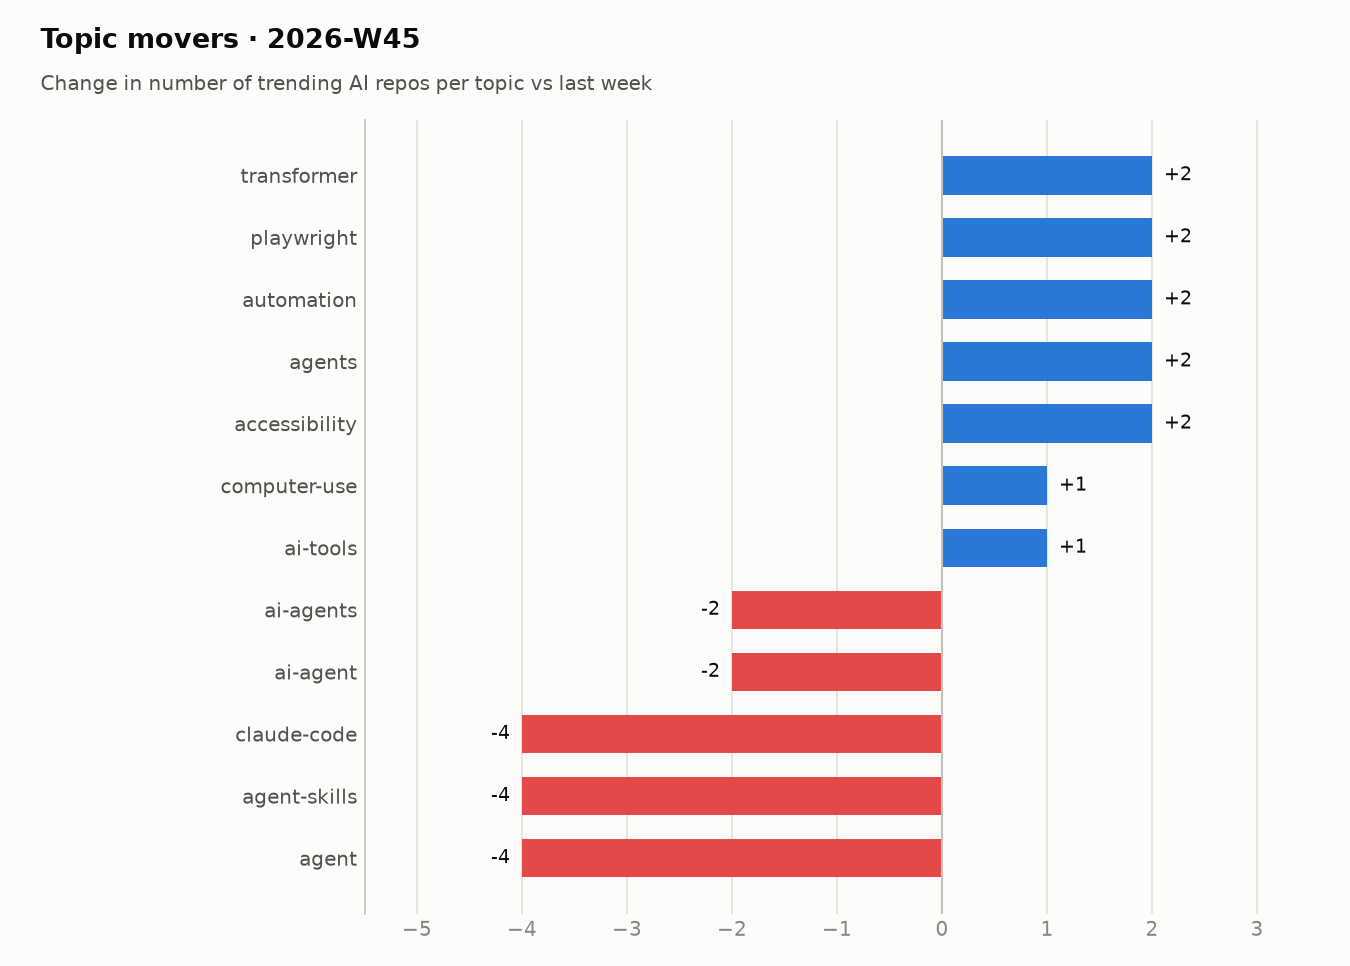
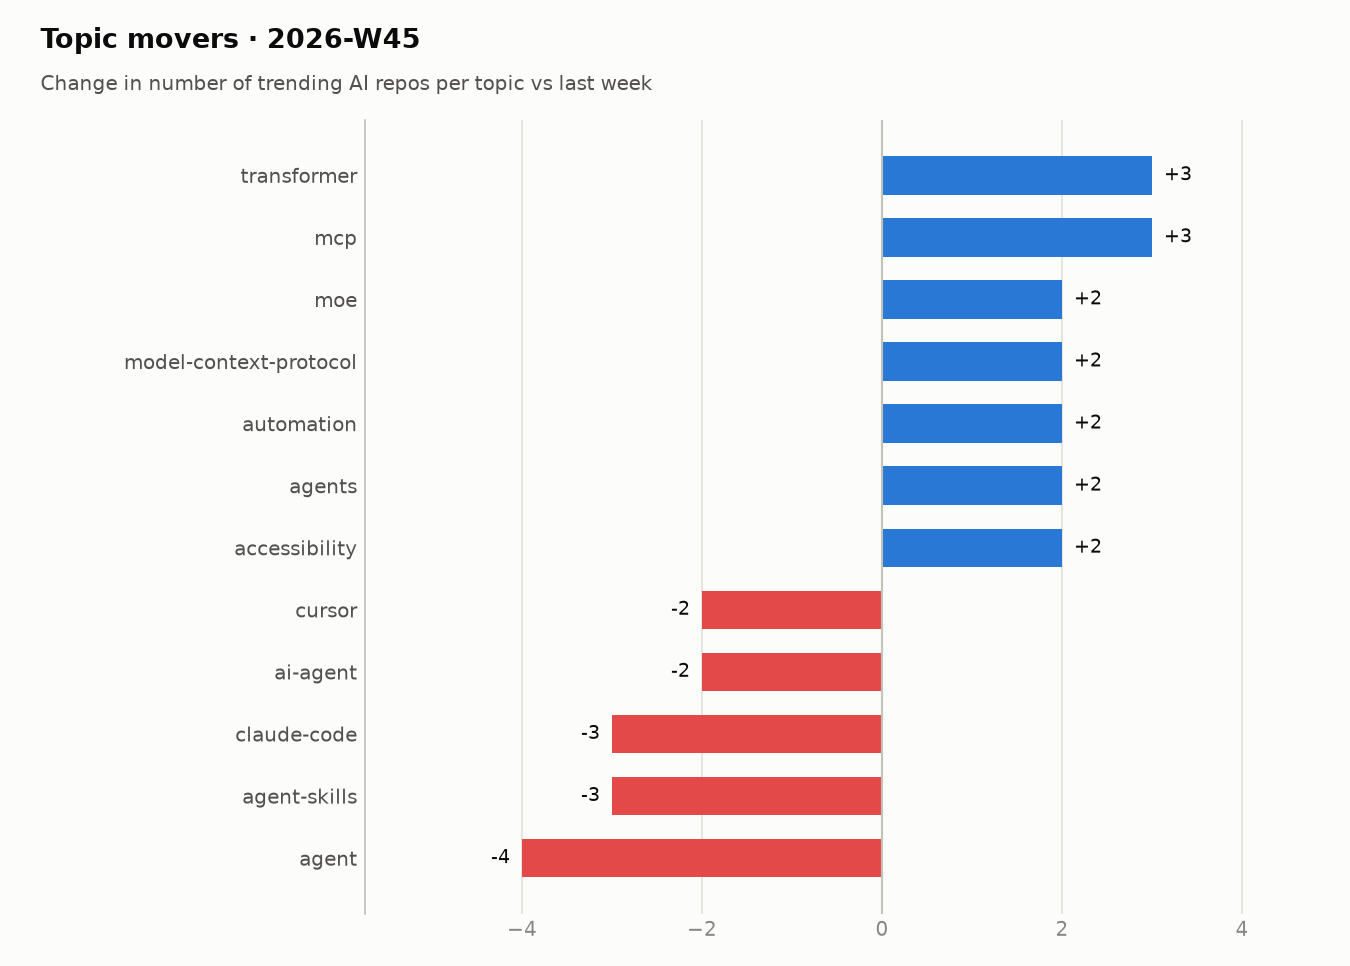
trending: snapshot 2026-11-05

diff --git a/README.md b/README.md
@@ -7,33 +7,35 @@ Every morning a GitHub Actions workflow reads the GitHub trending page, looks up
 ## Live view
 
 <!-- TRACKER_START -->
-### 🔥 AI repos trending today · 2026-11-04
+### 🔥 AI repos trending today · 2026-11-05
 
-11 of 13 trending repositories are AI-related.
+13 of 16 trending repositories are AI-related.
 
 | # | Repo | Language | ⭐ today | ⭐ total | Topics |
 |--:|---|---|--:|--:|---|
-| 1 | [thedotmack/claude-mem](https://github.com/thedotmack/claude-mem)<br><sub>Sponsor Star thedotmack / claude-mem Persistent Context Across Sessions for Every Agent – …</sub> | TypeScript | 1,139 | 112,306 | `ai` `ai-agents` `ai-memory` `anthropic` |
-| 2 | [vercel-labs/agent-desktop](https://github.com/vercel-labs/agent-desktop)<br><sub>Star vercel-labs / agent-desktop Computer use CLI for AI agents</sub> | Rust | 3,791 | 13,649 | `accessibility` `accessibility-api` `ai-agents` `automation` |
-| 3 | [max-sixty/worktrunk](https://github.com/max-sixty/worktrunk)<br><sub>Star max-sixty / worktrunk Worktrunk is a CLI for Git worktree management, designed for pa…</sub> | Rust | 438 | 10,706 | `agents` `claude-code` `codex` `developer-tools` |
-| 4 | [JustVugg/colibri](https://github.com/JustVugg/colibri)<br><sub>Star JustVugg / colibri A hierarchical inference engine for frontier MoE models: hot exper…</sub> | C | 802 | 47,469 | – |
-| 5 | [mattpocock/skills](https://github.com/mattpocock/skills)<br><sub>Sponsor Star mattpocock / skills Skills for Real Engineers. Straight from my .agents direc…</sub> | Shell | 1,164 | 311,942 | – |
-| 6 | [p-e-w/heretic](https://github.com/p-e-w/heretic)<br><sub>Star p-e-w / heretic Training-free language model modification: Remove censorship, suppres…</sub> | Python | 701 | 39,063 | `abliteration` `anti-censorship` `anticensorship` `censorship` |
-| 7 | [spotify/portal-ai-plugins](https://github.com/spotify/portal-ai-plugins)<br><sub></sub> | TypeScript | 91 | 3,110 | – |
-| 9 | [Usagi-org/ai-goofish-monitor](https://github.com/Usagi-org/ai-goofish-monitor)<br><sub>Star Usagi-org / ai-goofish-monitor 基于 Playwright 和AI实现的闲鱼多任务实时/定时监控与智能分析系统，配备了功能完善的后台管理UI…</sub> | Python | 228 | 16,935 | `ai` `ai-assistant` `ai-tools` `automation` |
-| 10 | [anomalyco/hex](https://github.com/anomalyco/hex)<br><sub>Sponsor Star anomalyco / hex Local voice dictation for mac, windows and linux</sub> | Rust | 410 | 4,809 | `dictation` `linux` `local-first` `macos` |
-| 11 | [D4Vinci/Scrapling](https://github.com/D4Vinci/Scrapling)<br><sub>Sponsor Star D4Vinci / Scrapling 🕷 The BEST Web Scraping framework that handles everythin…</sub> | Python | 1,658 | 95,499 | `ai` `ai-scraping` `automation` `crawler` |
-| 13 | [Donchitos/Claude-Code-Game-Studios](https://github.com/Donchitos/Claude-Code-Game-Studios)<br><sub>Sponsor Star Donchitos / Claude-Code-Game-Studios Turn Claude Code into a full game dev st…</sub> | Shell | 1,182 | 35,031 | `ai-agents` `ai-assisted-development` `anthropic` `claude` |
+| 1 | [NVIDIA/auto-ontology](https://github.com/NVIDIA/auto-ontology)<br><sub>Star NVIDIA / auto-ontology Auto Ontology is a Python framework for building semantic, gra…</sub> | Python | 2,050 | 6,068 | – |
+| 2 | [max-sixty/worktrunk](https://github.com/max-sixty/worktrunk)<br><sub>Star max-sixty / worktrunk Worktrunk is a CLI for Git worktree management, designed for pa…</sub> | Rust | 531 | 11,254 | `agents` `claude-code` `codex` `developer-tools` |
+| 3 | [mattpocock/skills](https://github.com/mattpocock/skills)<br><sub>Sponsor Star mattpocock / skills Skills for Real Engineers. Straight from my .agents direc…</sub> | Shell | 1,379 | 313,928 | – |
+| 5 | [thedotmack/claude-mem](https://github.com/thedotmack/claude-mem)<br><sub>Sponsor Star thedotmack / claude-mem Persistent Context Across Sessions for Every Agent – …</sub> | TypeScript | 1,172 | 113,191 | `ai` `ai-agents` `ai-memory` `anthropic` |
+| 6 | [vercel-labs/agent-desktop](https://github.com/vercel-labs/agent-desktop)<br><sub>Star vercel-labs / agent-desktop Computer use CLI for AI agents</sub> | Rust | 2,470 | 15,941 | `accessibility` `accessibility-api` `ai-agents` `automation` |
+| 7 | [github/spec-kit](https://github.com/github/spec-kit)<br><sub>Star github / spec-kit 💫 Toolkit to help you get started with SDD or any other process!</sub> | Python | 808 | 147,566 | `ai` `copilot` `development` `engineering` |
+| 8 | [The-PR-Agent/pr-agent](https://github.com/The-PR-Agent/pr-agent)<br><sub>Star The-PR-Agent / pr-agent 🚀 PR Agent: The Original Open-Source PR Reviewer. This projec…</sub> | Python | 280 | 14,959 | `ai` `anthropic` `code-review` `coding-assistant` |
+| 9 | [harry0703/MoneyPrinterTurbo](https://github.com/harry0703/MoneyPrinterTurbo)<br><sub>Star harry0703 / MoneyPrinterTurbo 利用 AI 大模型和自动化工作流，根据主题或关键词一键生成高清短视频。Generate HD short vi…</sub> | Python | 617 | 139,438 | `ai-video-generator` `content-creation` `ffmpeg` `instagram-reels` |
+| 10 | [garrytan/gstack](https://github.com/garrytan/gstack)<br><sub>Star garrytan / gstack Use Garry Tan's exact Claude Code setup: 23 opinionated tools that …</sub> | TypeScript | 290 | 139,560 | – |
+| 11 | [FareedKhan-dev/kimi-k3-in-c](https://github.com/FareedKhan-dev/kimi-k3-in-c)<br><sub>Star FareedKhan-dev / kimi-k3-in-c A 2.78-trillion-parameter Kimi K3 running inference on …</sub> | C | 351 | 10,590 | `avx2` `c99` `cpu-inference` `deep-learning` |
+| 14 | [D4Vinci/Scrapling](https://github.com/D4Vinci/Scrapling)<br><sub>Sponsor Star D4Vinci / Scrapling 🕷 The BEST Web Scraping framework that handles everythin…</sub> | Python | 2,005 | 97,143 | `ai` `ai-scraping` `automation` `crawler` |
+| 15 | [Thysrael/Horizon](https://github.com/Thysrael/Horizon)<br><sub>Star Thysrael / Horizon 📡 Your own AI-powered news radar. Generates daily briefings in Eng…</sub> | Python | 121 | 12,777 | `aggregator` `feishu-bot` `llm` `mcp` |
+| 16 | [scenario-labs/skills](https://github.com/scenario-labs/skills)<br><sub>Star scenario-labs / skills Get production-ready images, video, audio, and 3D from any AI …</sub> | Python | 224 | 2,676 | `3d-models` `agent-skills` `ai-agents` `ai-art` |
 
 ### 📊 This week so far · 2026-W45
 
 #### Summary
 
-- **20** distinct AI repos trended over 3 day(s) (last week: 30)
-- AI share of all trending slots: **73%** (-9 pts vs last week)
-- Dominant language: **Python** (30% of AI repos)
-- Rising topics: `accessibility` (+2), `agents` (+2), `automation` (+2), `playwright` (+2), `transformer` (+2)
-- New this week: `accessibility`, `agents`, `transformer`
+- **28** distinct AI repos trended over 4 day(s) (last week: 30)
+- AI share of all trending slots: **75%** (-7 pts vs last week)
+- Dominant language: **Python** (43% of AI repos)
+- Rising topics: `mcp` (+3), `transformer` (+3), `accessibility` (+2), `agents` (+2), `automation` (+2)
+- New this week: `transformer`, `accessibility`, `model-context-protocol`, `agents`, `moe`, `openclaw`
 
 #### Languages
 
@@ -41,13 +43,13 @@ Every morning a GitHub Actions workflow reads the GitHub trending page, looks up
 
 | Language | Repos | Share | Last week |
 |---|--:|--:|--:|
-| Python | 6 | 30% | 7 |
-| TypeScript | 5 | 25% | 8 |
-| Rust | 4 | 20% | 3 |
-| Shell | 2 | 10% | 4 |
-| Zig | 1 | 5% | 1 |
-| Jupyter Notebook | 1 | 5% | 0 |
-| C | 1 | 5% | 0 |
+| Python | 12 | 43% | 7 |
+| TypeScript | 6 | 21% | 8 |
+| Rust | 4 | 14% | 3 |
+| Shell | 2 | 7% | 4 |
+| C | 2 | 7% | 0 |
+| Zig | 1 | 4% | 1 |
+| Jupyter Notebook | 1 | 4% | 0 |
 
 #### Topics
 
@@ -55,37 +57,37 @@ Every morning a GitHub Actions workflow reads the GitHub trending page, looks up
 
 | Topic | Repos this week |
 |---|--:|
-| `ai-agents` | 6 |
-| `mcp` | 6 |
-| `claude-code` | 5 |
+| `mcp` | 8 |
+| `ai-agents` | 7 |
+| `claude-code` | 6 |
+| `codex` | 4 |
 | `claude` | 3 |
+| `claude-skills` | 3 |
+| `anthropic` | 3 |
 | `playwright` | 3 |
-| `codex` | 3 |
+| `transformer` | 3 |
 | `automation` | 3 |
 | `rag` | 2 |
-| `claude-skills` | 2 |
-| `anthropic` | 2 |
 | `browser-automation` | 2 |
-| `self-hosted` | 2 |
 
 #### Most persistent AI repos
 
 | Repo | Language | Days trending | Stars gained | Total stars |
 |---|---|--:|--:|--:|
-| [thedotmack/claude-mem](https://github.com/thedotmack/claude-mem) | TypeScript | 3 | 4,468 | 112,306 |
+| [thedotmack/claude-mem](https://github.com/thedotmack/claude-mem) | TypeScript | 4 | 5,640 | 113,191 |
+| [vercel-labs/agent-desktop](https://github.com/vercel-labs/agent-desktop) | Rust | 3 | 8,536 | 15,941 |
+| [D4Vinci/Scrapling](https://github.com/D4Vinci/Scrapling) | Python | 3 | 4,369 | 97,143 |
 | [Donchitos/Claude-Code-Game-Studios](https://github.com/Donchitos/Claude-Code-Game-Studios) | Shell | 3 | 3,528 | 35,031 |
-| [vercel-labs/agent-desktop](https://github.com/vercel-labs/agent-desktop) | Rust | 2 | 6,066 | 13,649 |
-| [D4Vinci/Scrapling](https://github.com/D4Vinci/Scrapling) | Python | 2 | 2,364 | 95,499 |
-| [mattpocock/skills](https://github.com/mattpocock/skills) | Shell | 2 | 2,022 | 311,942 |
+| [mattpocock/skills](https://github.com/mattpocock/skills) | Shell | 3 | 3,401 | 313,928 |
+| [max-sixty/worktrunk](https://github.com/max-sixty/worktrunk) | Rust | 3 | 1,046 | 11,254 |
 | [anomalyco/hex](https://github.com/anomalyco/hex) | Rust | 2 | 1,589 | 4,809 |
 | [p-e-w/heretic](https://github.com/p-e-w/heretic) | Python | 2 | 1,121 | 39,063 |
 | [FlashML-org/FreeToken](https://github.com/FlashML-org/FreeToken) | Python | 2 | 895 | 16,360 |
-| [max-sixty/worktrunk](https://github.com/max-sixty/worktrunk) | Rust | 2 | 515 | 10,706 |
 | [kornia/kornia](https://github.com/kornia/kornia) | Python | 2 | 513 | 12,263 |
 
 ➡ Last full weekly analysis: [2026-W44](reports/weekly/2026-W44.md) · [all reports](reports/weekly)
 
-_Tracking since 2026-10-01 · 35 day(s) of data · [raw data](data/trending.csv)_
+_Tracking since 2026-10-01 · 36 day(s) of data · [raw data](data/trending.csv)_
 <!-- TRACKER_END -->
 
 ## How it works
